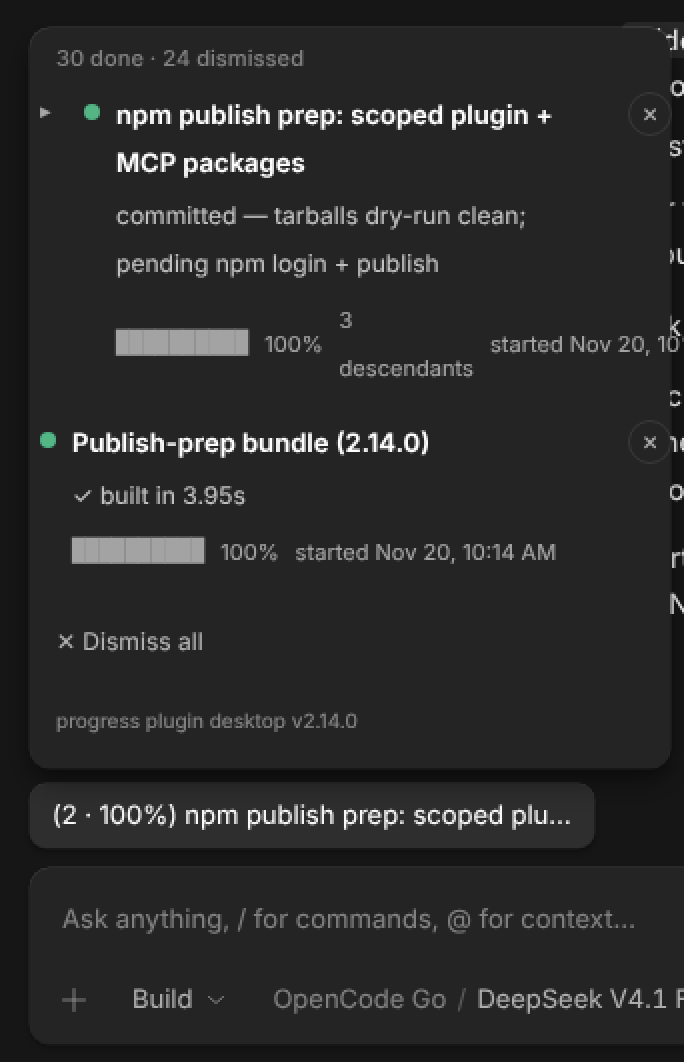
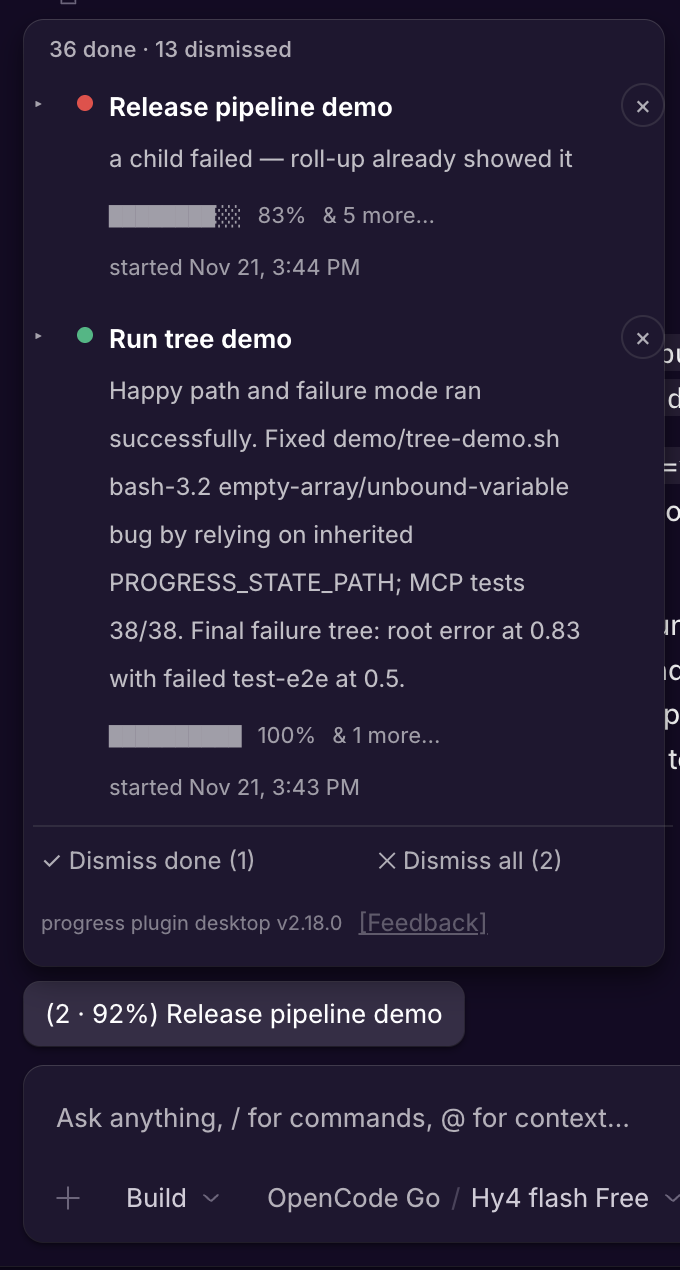
Clarify plugin updates and hide redundant control
Document automatic version updates, rely on inherited state-path configuration in the tree demo, and show the completed-task filter only when active and incomplete roots remain. Refresh the screenshot.

Changed region(s): [[0.0309, 0.0, 1.0, 0.9633], [0.0618, 0.9322, 1.0, 0.9944], [0.5559, 0.6525, 0.8338, 0.6836]]

diff --git a/plugin/src/gui.tsx b/plugin/src/gui.tsx
@@ -593,7 +593,7 @@ export default Plugin.define({
                 "flex": "0 0 auto",
               }}
             >
-              <Show when={doneRoots().length > 0}>
+              <Show when={doneRoots().length > 0 && doneRoots().length < visibleRoots().length}>
                 <button
                   type="button"
                   class="progress-pill-button"

diff --git a/README.md b/README.md
@@ -19,8 +19,13 @@ Published packages:
 - MCP server + relay — [`@jakedowns/progress-tool-mcp`](https://www.npmjs.com/package/@jakedowns/progress-tool-mcp)
 
 ```bash
-opencode plugin add @jakedowns/progress-tool-opencode-plugin
+opencode plugin add @jakedowns/progress-tool-opencode-plugin@latest
 ```
+
+`@latest` makes OpenCode check for and install new versions automatically
+(startup and every 24h). Use `@^2.18.0` instead if you want the same automatic
+updates but capped to major 2; a bare package name stays on whichever version
+was installed and only updates when you run `opencode plugin update`.
 
 The plugin depends on the MCP package and **registers `progress-server` for you**
 (`autoRegisterMcp: false` to opt out), so this one command is the whole install.
@@ -39,7 +44,7 @@ Manual configuration, if you prefer:
 
 ```jsonc
 {
-  "plugins": ["@jakedowns/progress-tool-opencode-plugin"],
+  "plugins": ["@jakedowns/progress-tool-opencode-plugin@latest"],
   "mcp": {
     "servers": {
       "progress-server": {
